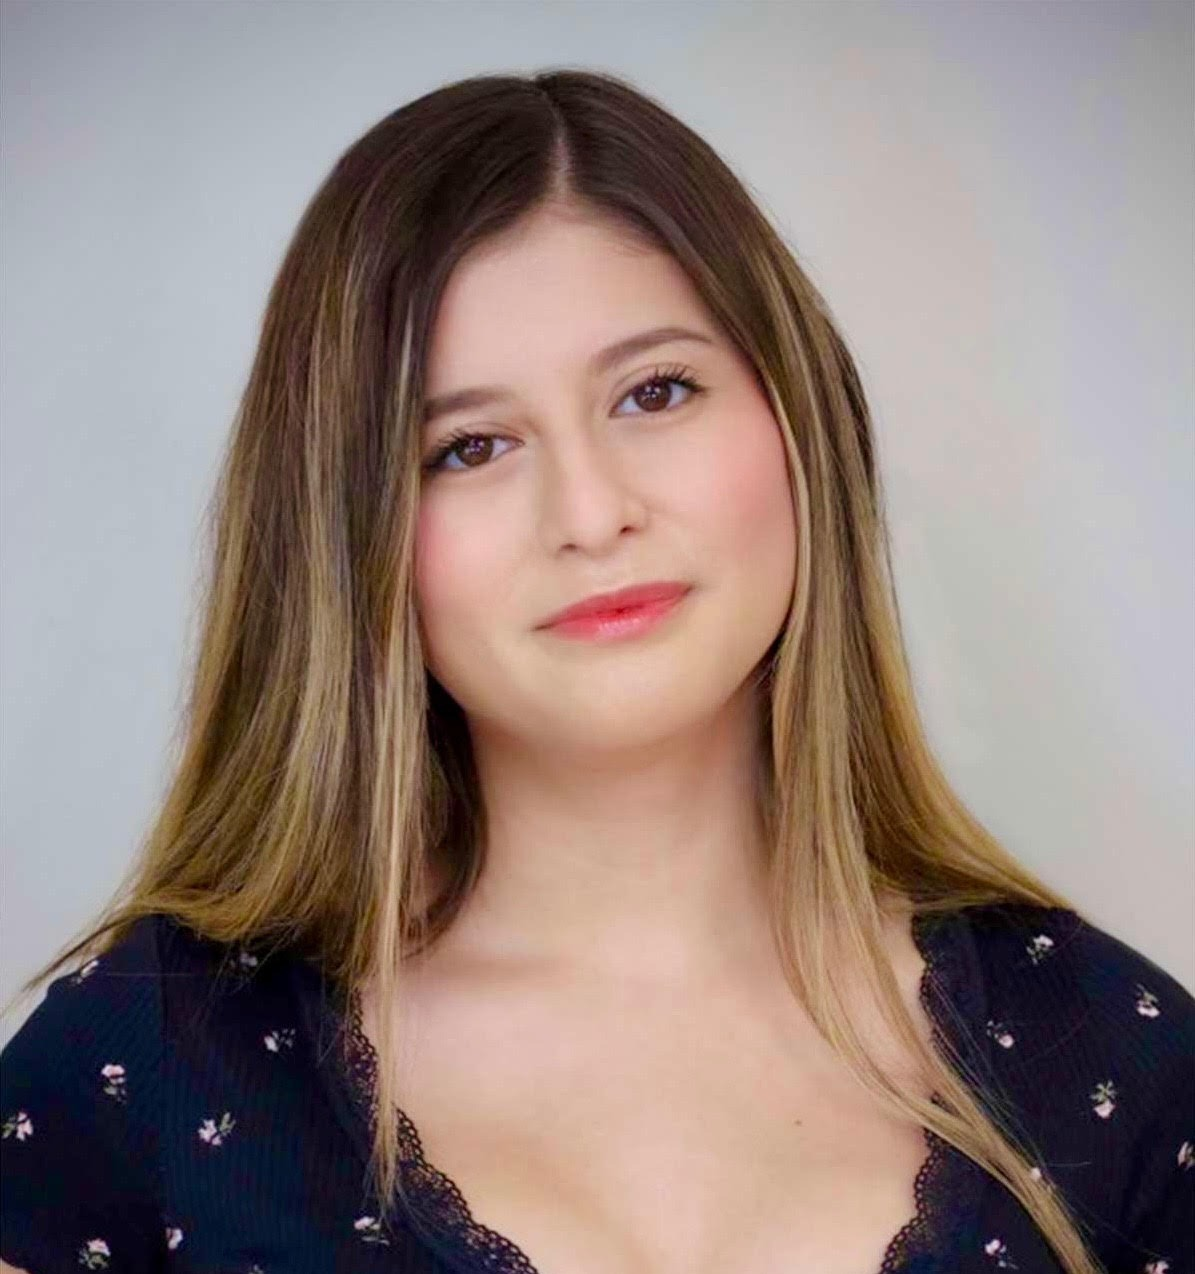
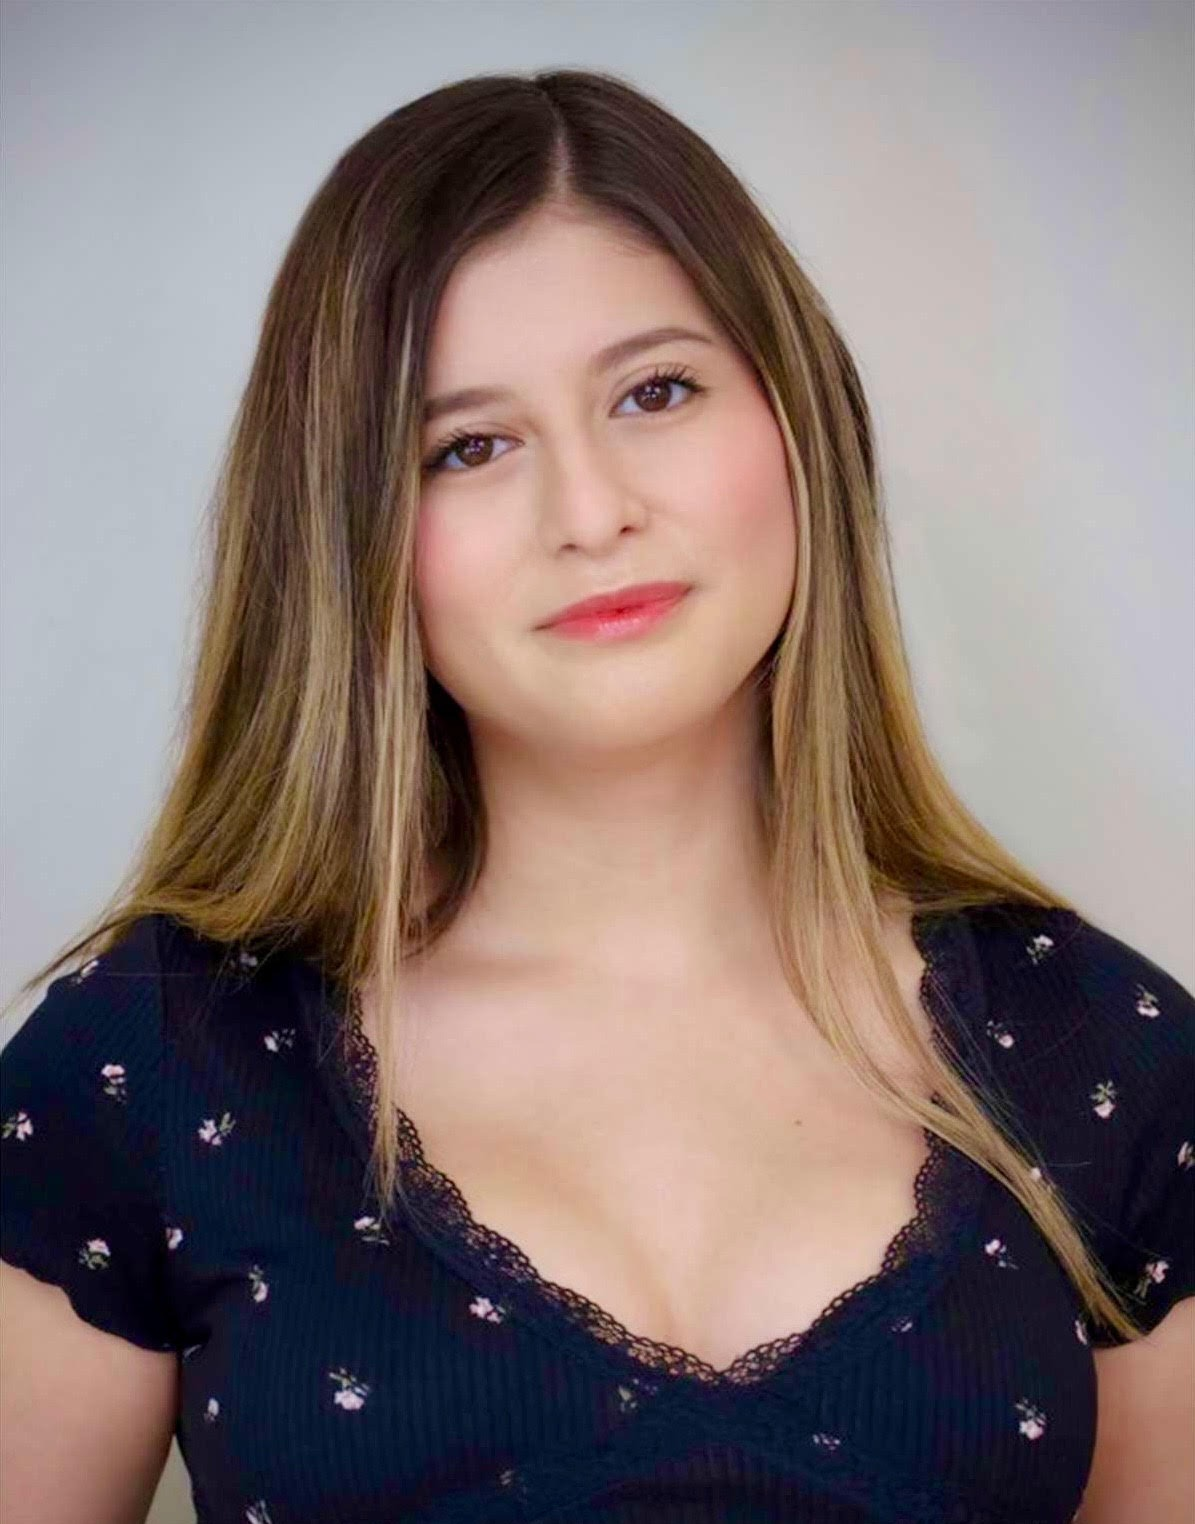
Fix: photos exec board

diff --git a/eboard.html b/eboard.html
@@ -40,7 +40,7 @@
   transition: transform 0.3s;
   padding: 1rem;
   width: 275px;
-  height: 620px;
+  height: 700px;
   margin: auto;
   display: flex;
   flex-direction: column;
